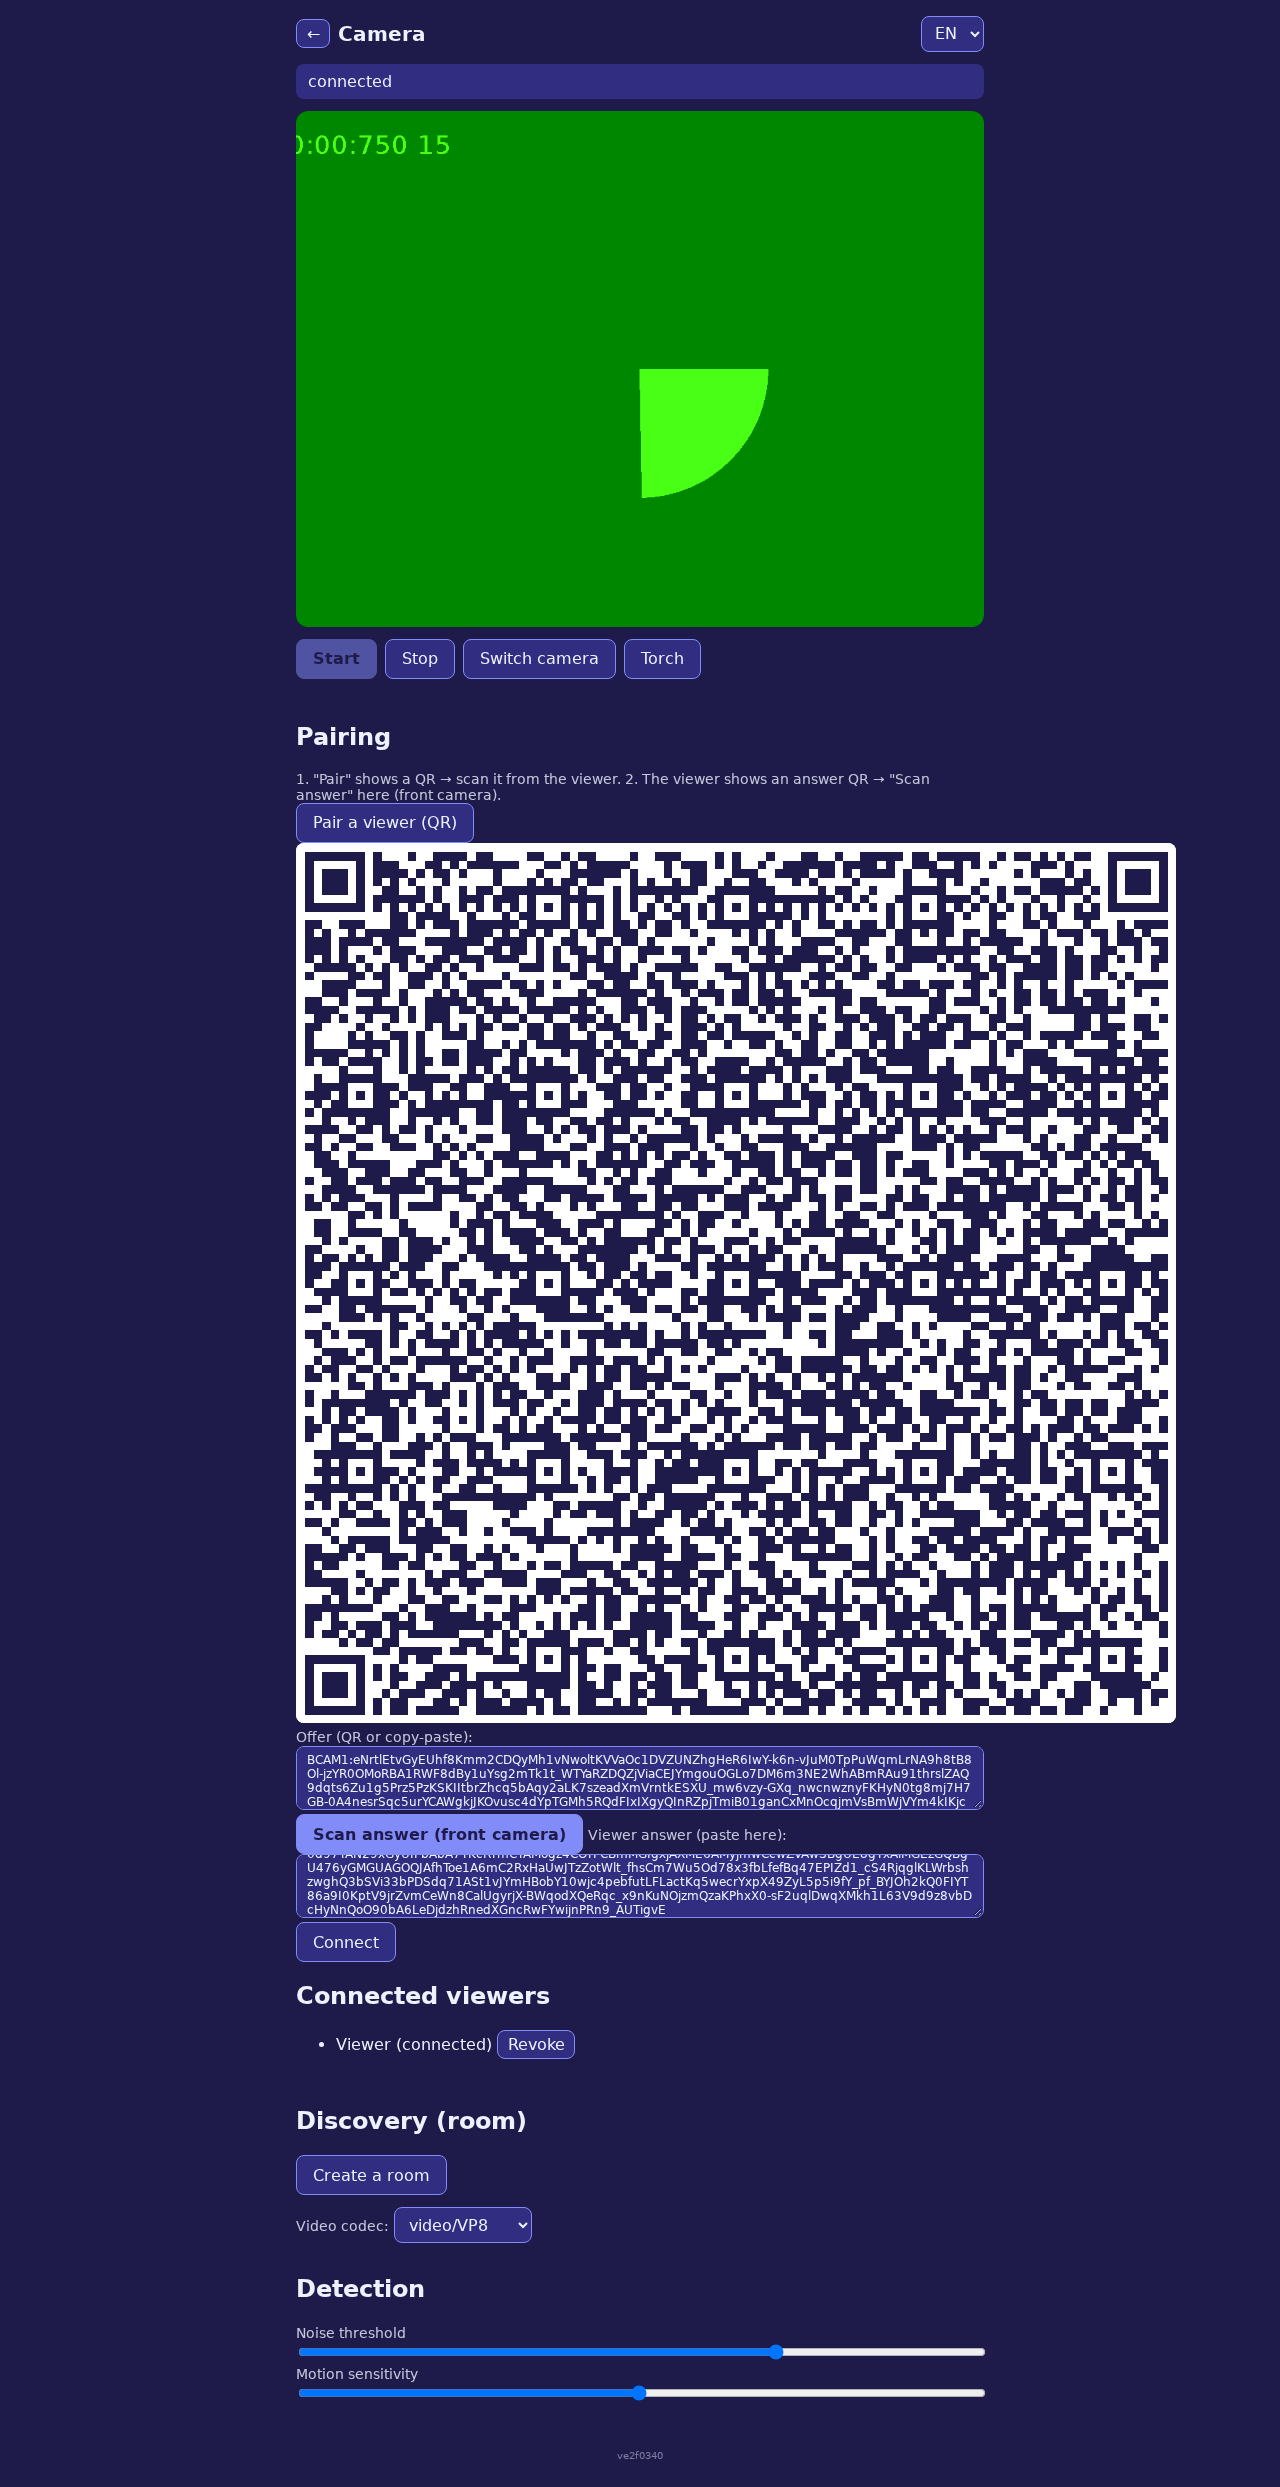
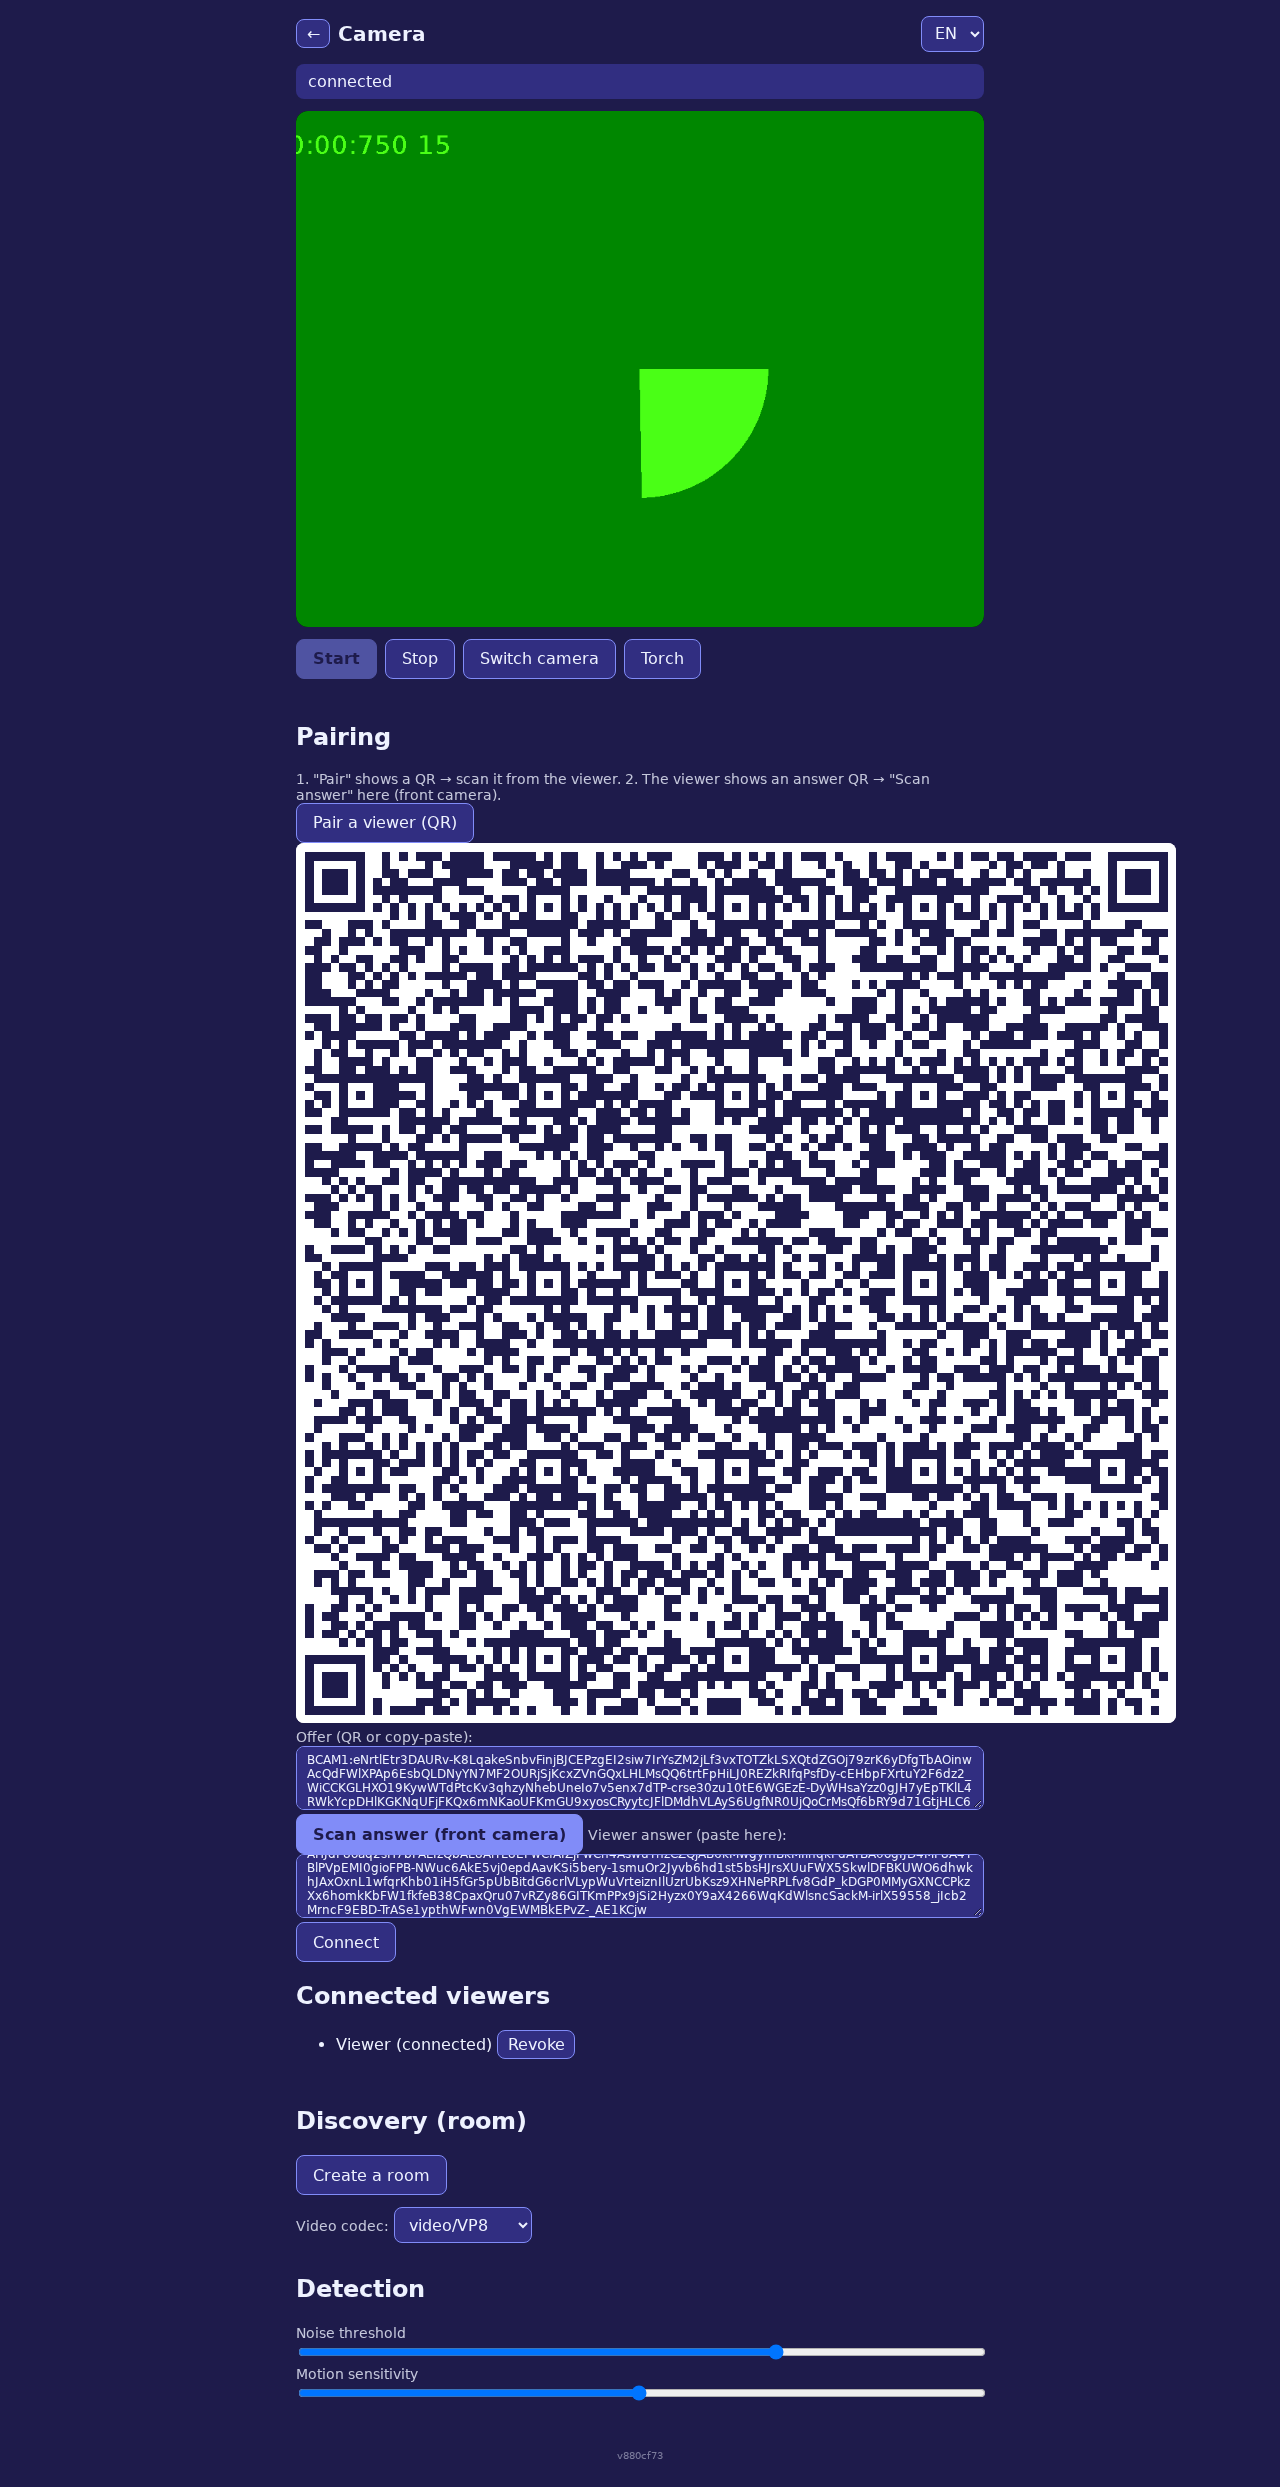
feat(I3.5): branche le relais Cloudflare déployé (DEFAULT_RELAY_URL)
- DEFAULT_RELAY_URL = 'wss://babycam-relay.veille-cron.workers.dev' (worker babycam-relay déployé via npx wrangler deploy, vérifié vivant : GET / -> 426 'expected websocket')
- ?relay=0 désactive le relais (E2E hermétiques : debugParams() -> relay=0), ?relay=<url> reste prioritaire
- tests unitaires relayUrlFromLocation (param > défaut, 0 -> null, défaut wss) + 43 tests OK
- README : section déploiement du relais (wrangler login/deploy/tail) + sémantique ?relay=
- plan.md : I3.5 documenté

Changed region(s): [[0.2188, 0.3406, 0.9375, 0.774]]

diff --git a/src/shared/relay.test.ts b/src/shared/relay.test.ts
@@ -1,5 +1,5 @@
-import { describe, expect, it } from 'vitest';
-import { backoffDelayMs, newRoomCode } from './relay';
+import { afterEach, describe, expect, it, vi } from 'vitest';
+import { DEFAULT_RELAY_URL, backoffDelayMs, newRoomCode, relayUrlFromLocation } from './relay';
 
 describe('relay', () => {
   it('newRoomCode : 6 caractères dans l’alphabet sans ambiguïté', () => {
@@ -23,5 +23,28 @@ describe('relay', () => {
     expect(backoffDelayMs(10)).toBe(30_000);
     expect(backoffDelayMs(100)).toBe(30_000);
     expect(backoffDelayMs(-3)).toBe(1000);
+  });
+});
+
+describe('relayUrlFromLocation', () => {
+  afterEach(() => vi.unstubAllGlobals());
+
+  it('DEFAULT_RELAY_URL pointe vers le worker déployé (wss)', () => {
+    expect(DEFAULT_RELAY_URL).toMatch(/^wss:\/\/babycam-relay\.[a-z0-9-]+\.workers\.dev$/);
+  });
+
+  it('?relay=<url> est prioritaire sur le défaut', () => {
+    vi.stubGlobal('location', { search: '?relay=wss%3A%2F%2F127.0.0.1%3A8787' });
+    expect(relayUrlFromLocation()).toBe('wss://127.0.0.1:8787');
+  });
+
+  it('?relay=0 désactive le relais (tests E2E hors ligne)', () => {
+    vi.stubGlobal('location', { search: '?relay=0' });
+    expect(relayUrlFromLocation()).toBeNull();
+  });
+
+  it('sans paramètre, retombe sur DEFAULT_RELAY_URL', () => {
+    vi.stubGlobal('location', { search: '' });
+    expect(relayUrlFromLocation()).toBe(DEFAULT_RELAY_URL);
   });
 });

diff --git a/src/shared/relay.ts b/src/shared/relay.ts
@@ -16,12 +16,14 @@ export function backoffDelayMs(attempt: number): number {
   return Math.min(30_000, 1_000 * 2 ** Math.max(0, attempt));
 }
 
-// URL du relais par défaut (à renseigner après `wrangler deploy` dans relay/). Vide = non configuré.
-export const DEFAULT_RELAY_URL = '';
+// URL du relais par défaut (worker Cloudflare `babycam-relay`, déployé via `wrangler deploy` dans relay/).
+export const DEFAULT_RELAY_URL: string = 'wss://babycam-relay.veille-cron.workers.dev';
 
 export function relayUrlFromLocation(): string | null {
   const param = new URLSearchParams(location.search).get('relay');
-  return param || (DEFAULT_RELAY_URL !== '' ? DEFAULT_RELAY_URL : null);
+  if (param === '0') return null;
+  if (param) return param;
+  return DEFAULT_RELAY_URL !== '' ? DEFAULT_RELAY_URL : null;
 }
 
 export class RelayClient {

diff --git a/e2e/helpers.ts b/e2e/helpers.ts
@@ -9,5 +9,5 @@ export async function shot(page: Page, name: string): Promise<void> {
 }
 
 export function debugParams(): string {
-  return '?stun=0&debug=1';
+  return '?stun=0&debug=1&relay=0';
 }

diff --git a/docs/plan.md b/docs/plan.md
@@ -217,6 +217,7 @@ Chaque incrément est petit, testé (unitaires vitest, plus E2E Playwright quand
 - I3.2 : **appairage QR simplifié (réseau local)** — mode QR sans STUN (`iceServers: []`) → SDP compact → **un seul QR** offre et réponse (chunk 4200, carrousel en fallback), la caméra **scanne la réponse avec la caméra frontale** (plus de copier-coller), copier-coller en secours ; E2E : un seul chunk + QR décodé identique au payload.
 - I3.3 : **QR = code de salon (option A)** — si un relais est configuré (`?relay=` ou `DEFAULT_RELAY_URL`), le QR d'appairage ne contient que `BCAM1/R/CODE` (QR minuscule v1-2) et le SDP passe par le relais ; sinon fallback QR SDP (I3.2) **allégé au maximum** (`mungeSdpAggressive` : un seul codec vidéo choisi + opus seul en audio, extmap supprimés → QR ~v15-17). **Liste déroulante codec vidéo** (défaut = premier codec du navigateur, persisté) ; E2E : QR salon décodé + appairage complet via relais, persistance du codec, contenu du QR sans relais = 1 seul PT vidéo + opus + pas d'extmap.
 - I3.4 : **QR encore plus petit + PWA auto-mise à jour** — slimming SDP supplémentaire (`slimSdpForQr` : lignes `a=ssrc`/`a=msid`/`a=rid:`/`a=simulcast` supprimées, seuls les candidats `udp` + `typ host` conservés) appliqué à l'offre **et** à la réponse QR, QR affiché plus grand (340px) ; service worker : `skipWaiting` + `clientsClaim`, enregistrement manuel avec `updateViaCache: 'none'` + `registration.update()` à chaque chargement + rechargement auto quand un nouveau SW prend le contrôle (un vieux SW en cache ne bloque plus la mise à jour) ; badge `v<hash git>` en bas de chaque page pour vérifier la version déployée ; tests unitaires (slim SDP, `videoMimeFromSdp`) + E2E (payload < 1000 car., 1 seul QR décodé == payload, appairage complet avec SDP allégé, badge) → commit.
+- I3.5 : **relais prod branché** — `DEFAULT_RELAY_URL = 'wss://babycam-relay.veille-cron.workers.dev'` (worker `babycam-relay` déployé via `npx wrangler deploy` dans `relay/`, vérifié vivant : GET → `426 expected websocket`) ; `?relay=0` désactive le relais pour garder les E2E hermétiques (`debugParams()`) ; tests unitaires `relayUrlFromLocation` (param prioritaire, `0` → null, défaut sinon) ; README documente le déploiement du relais → commit.
 - Notifications push (hors 100 % statique), enregistrement d'extraits sur alerte, audio bidirectionnel, zone d'intérêt pour le mouvement.
 
 ## 14. Tests

diff --git a/README.md b/README.md
@@ -20,6 +20,20 @@ npm run test:e2e   # tests E2E (Playwright, build + preview auto)
 npm run lint && npm run typecheck && npm run build
 ```
 
+## Relais WebSocket (appairage par code de salon)
+
+Un petit relais Cloudflare Worker (`relay/`, Durable Object `RoomDO`) ne sert qu'à l'échange de signalisation (SDP) — le flux média reste 100 % pair-à-pair en WebRTC. Déployer une fois :
+
+```bash
+cd relay
+npm install
+npx wrangler login
+npx wrangler deploy   # → https://babycam-relay.<sous-domaine>.workers.dev
+npx wrangler tail     # logs en temps réel
+```
+
+L'URL déployée est renseignée dans `src/shared/relay.ts` (`DEFAULT_RELAY_URL` = `wss://babycam-relay.veille-cron.workers.dev`). Tant qu'un relais est configuré, le bouton « Appairer » de la caméra affiche un **petit QR de salon** (`BCAM1/R/CODE`) et le SDP passe par le relais. `?relay=<wss://…>` remplace le relais dans l'URL, `?relay=0` le désactive (mode QR SDP en local, utilisé par les tests E2E).
+
 ## Méthodologie
 
 Un incrément = un commit = tests verts (voir docs/plan.md §13). Les tests E2E produisent des screenshots commités dans `docs/screenshots/`.
